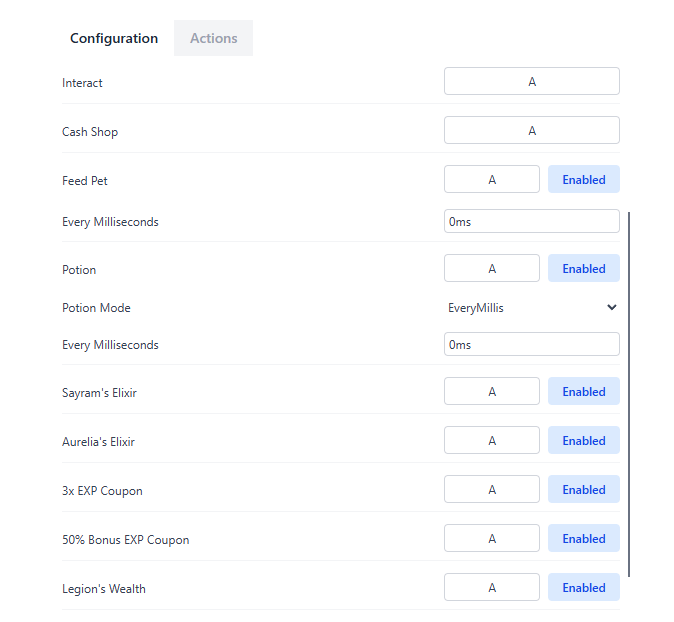
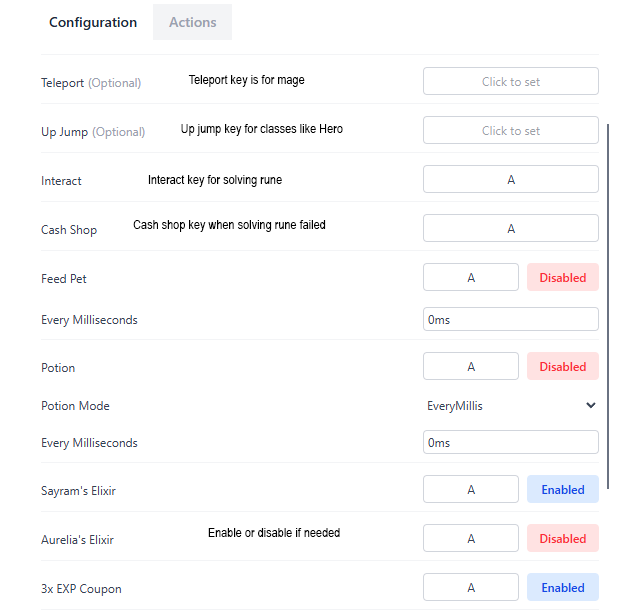
chore: more docs

diff --git a/README.md b/README.md
@@ -37,7 +37,9 @@ the order of one action to another depending on rotation mode.
 For supported buffs in the configuration, the bot relies on detecting buffs on the top-right corner. And the bot
 movement depends heavily on the skill `Rope Lift` to move around platforms, so make sure you set a key for it.
 
+![Rope Lift](https://github.com/sasanquaa/maple-bot/blob/master/.github/images/ropelift.png?raw=true)
 ![Configuration](https://github.com/sasanquaa/maple-bot/blob/master/.github/images/configuration.png?raw=true)
+![Buffs](https://github.com/sasanquaa/maple-bot/blob/master/.github/images/buffs.png?raw=true)
 
 #### Action
 There are two types of action:
@@ -92,7 +94,7 @@ There are four types of condition:
 For `ErdaShowerOffCooldown` condition to work, the skill Erda Shower must be assigned to
 the quick slots, with Action Customization toggled on and **visible** on screen.
 
-TODO Add image
+![Erda Shower](https://github.com/sasanquaa/maple-bot/blob/master/.github/images/erda.png?raw=true)
 
 #### Linked Key & Linked Action
 Linked key and linked action are useful for combo-oriented class such as Blaster, Cadena, Ark, Mercedes,...
@@ -106,22 +108,20 @@ For linked key, there are three link types:
 Note that even though `AtTheSame` would send two keys simultaneously, *the link key will be send first*. When the configured
 class is set to Blaster, the performing action has `After` link type and the link key is not `Space`, an extra `Space` key will be sent for cancelling Bobbing/Weaving. The same effect can also be achieved through linked action.
 
-Linked action is for linking action(s) into a chain. Linked action is straightforward and can be created by adding a `Linked` condition action below any `Any`/`ErdaShowerOffCooldown`/`EveryMillis`/`Linked` action. The first non-`Linked` action is the start of the actions chain:
+Linked action is for linking action(s) into a chain. Linked action can be created by adding a `Linked` condition action below any `Any`/`ErdaShowerOffCooldown`/`EveryMillis`/`Linked` action. The first non-`Linked` action is the start of the actions chain:
 
 ```
 Any Linked Linked Linked   EveryMillis Linked Linked
- ▲                     ▲    ▲                    ▲  
- │                     │    │                    │  
- │                     │    │                    │  
- └─────────────────────┘    └────────────────────┘  
+ ▲                    ▲     ▲                    ▲  
+ │                    │     │                    │  
+ │                    │     │                    │  
+ └────────────────────┘     └────────────────────┘  
           Chain                      Chain          
 ```
 
 Linked action cannot be overriden by any other type of actions once it has started executing regardless of whether the action is a normal or priority action.
 
 (This feature is quite niche though...)
-
-TODO Add image
 
 #### Rotation Modes
 Rotation mode specifies how to run the actions and affects **only** `Any` condition actions. There are three modes:
@@ -138,6 +138,8 @@ When `AutoMobbing` is used:
 - The bounds should be the rectangle where you can move around (two edges of the map)
 - For platforms pathing, see [Platforms Pathing](#platforms-pathing)
 
+![Auto Mobbing](https://github.com/sasanquaa/maple-bot/blob/master/.github/images/automobbing.png?raw=true)
+
 #### Platforms Pathing
 Platforms pathing is currently only supported for Auto Mobbing and Rune Solving. This feature exists to help
 pathing around platforms with or without `Rope Lift` skill. To use this feature, add all the map's platforms starting
@@ -146,7 +148,7 @@ from the ground level.
 Without this feature, the bot movement is quite simple. It just moves horizontally first so the `x` matches the destination
 and then try to up jump, rope lift or drop down as appropriate to match the `y`.
 
-TODO Add image
+![Platforms](https://github.com/sasanquaa/maple-bot/blob/master/.github/images/platforms.png?raw=true)
 
 ## Troubleshooting
 #### Wrong map detection
@@ -176,15 +178,18 @@ That said, it is quite rare.
 
 #### Default Ratio Game Resolution
 Currently, the bot does not support `Default Ratio` game resolution because most detection resources are
-in `Ideal Ratio` (1920x1080 with `Ideal Ratio` or 1376x768 below)
+in `Ideal Ratio` (1920x1080 with `Ideal Ratio` or 1376x768 below). `Default Ratio` currently only takes effect
+when play in `1920x1080` or above, making the UI blurry.
 
 ## Showcase
 #### Rotation
 https://github.com/user-attachments/assets/3c66dcb9-7196-4245-a7ea-4253f214bba6
 
 https://github.com/user-attachments/assets/463b9844-0950-4371-9644-14fad5e1fab9
+
 #### Auto Mobbing & Platforms Pathing
 https://github.com/user-attachments/assets/3f087f83-f956-4ee1-84b0-1a31286413ef
+
 #### Rune Solving
 https://github.com/user-attachments/assets/e9ebfc60-42bc-49ef-a367-3c20a1cd00e0
 
